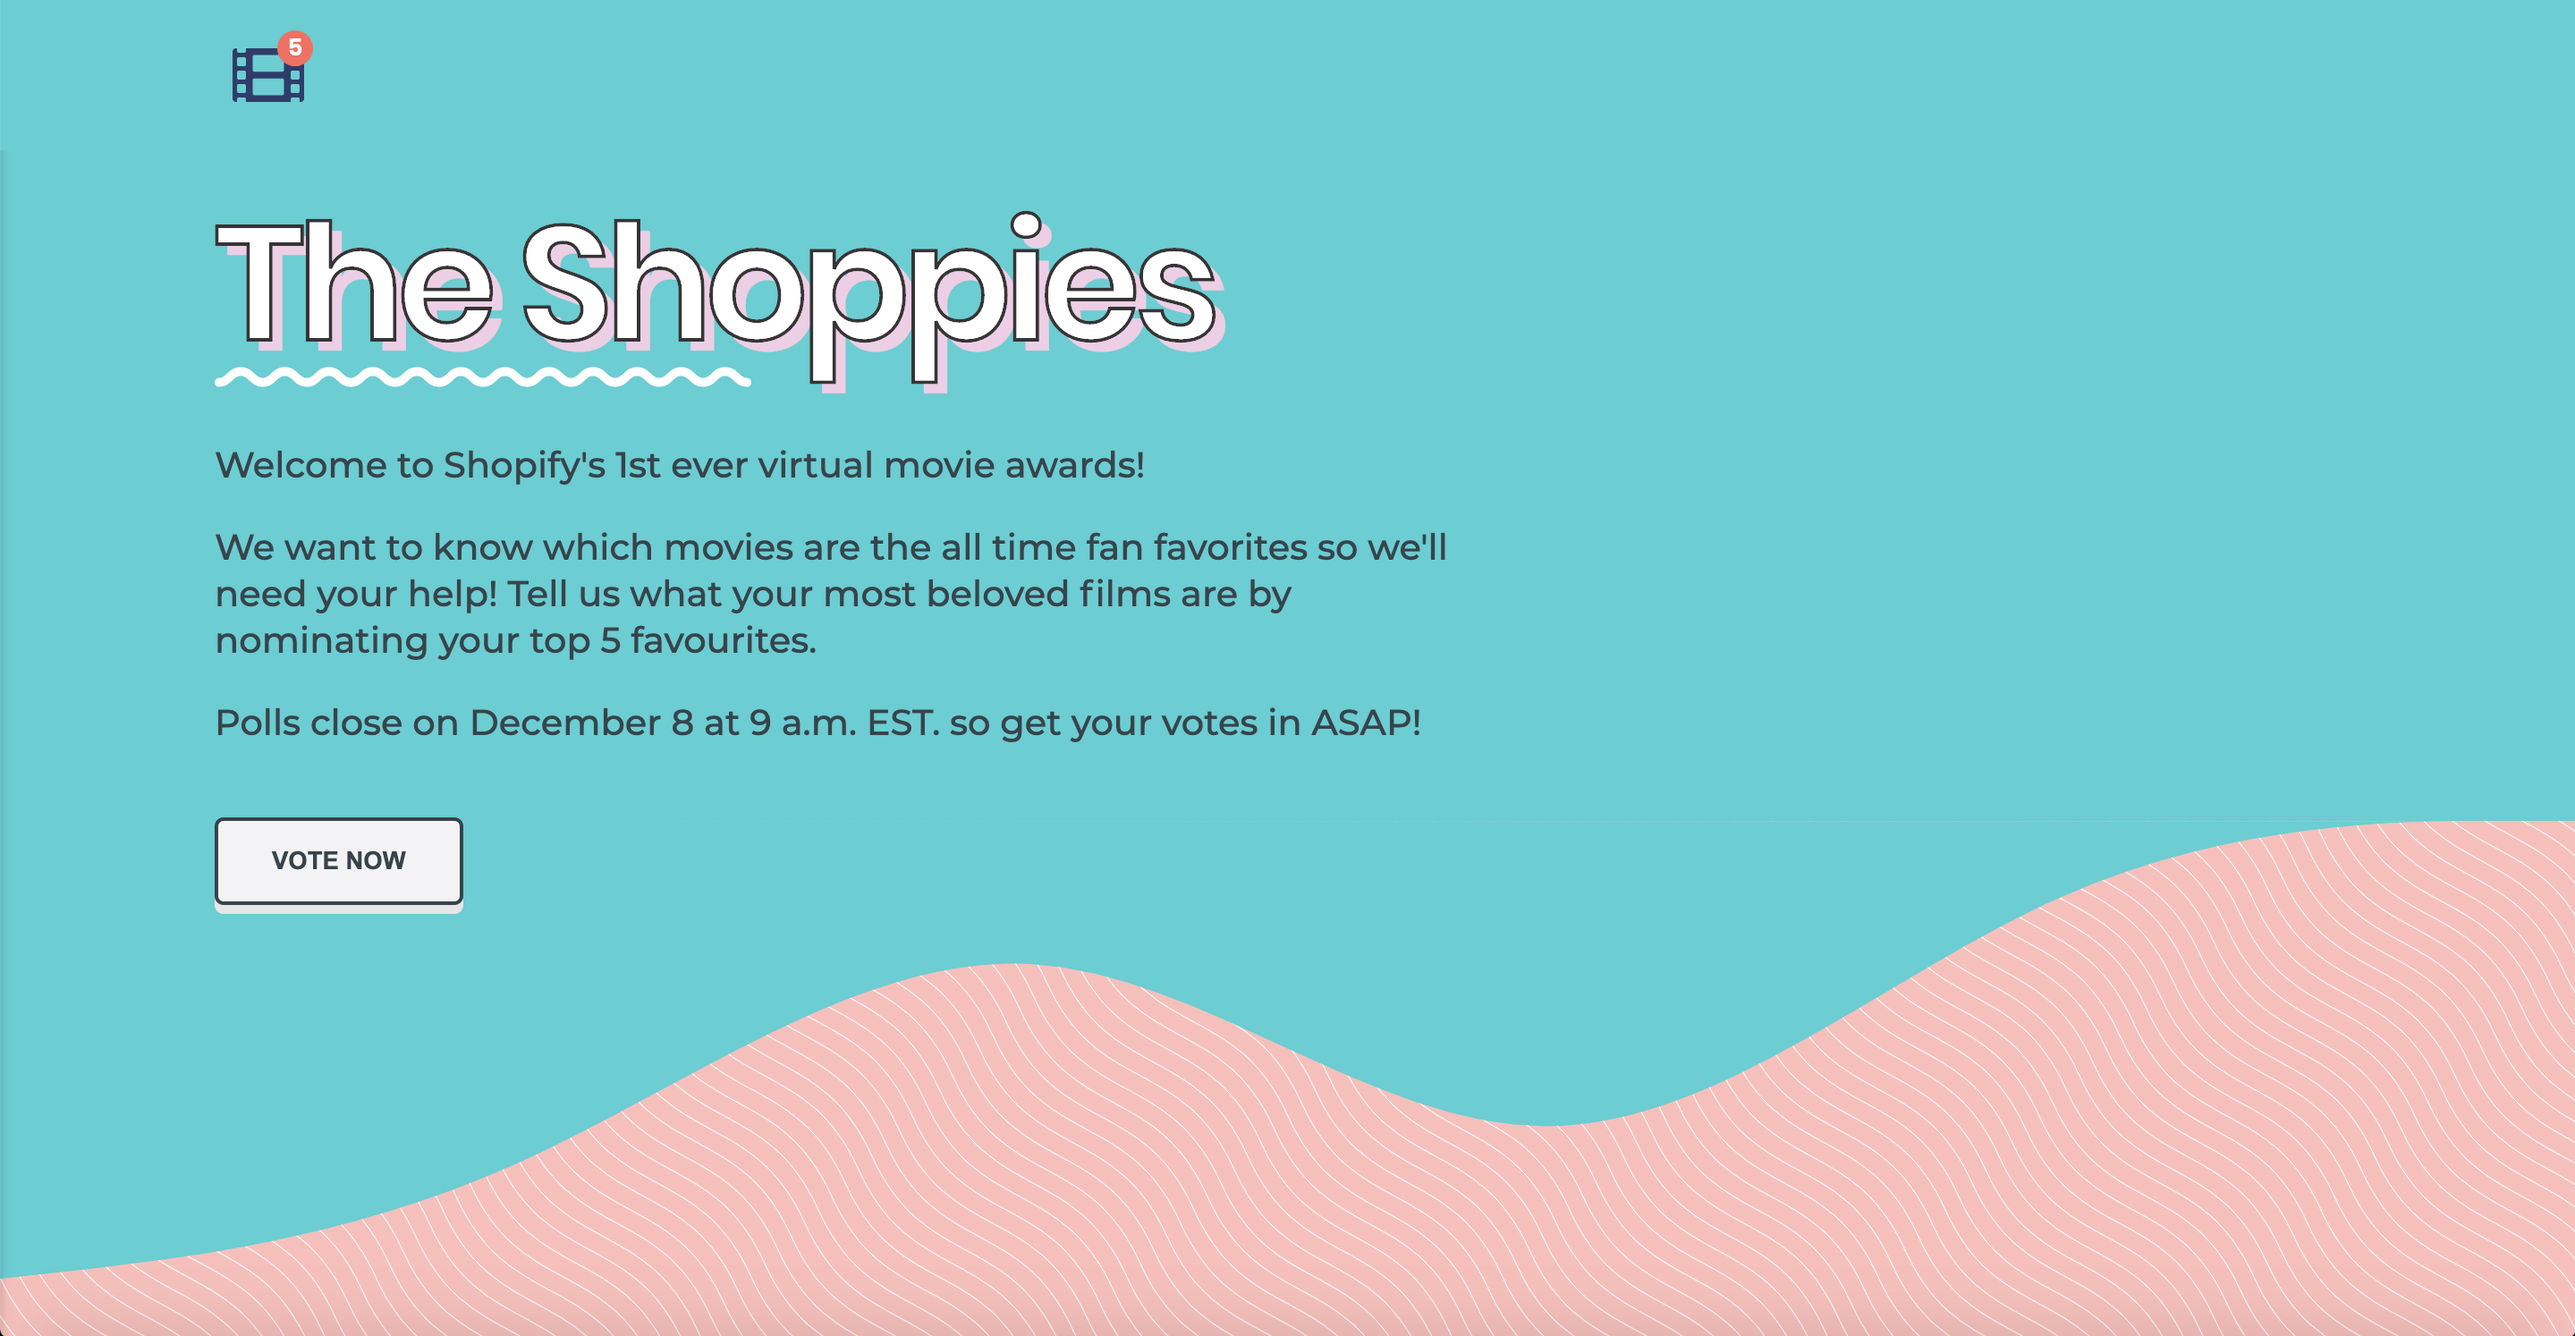
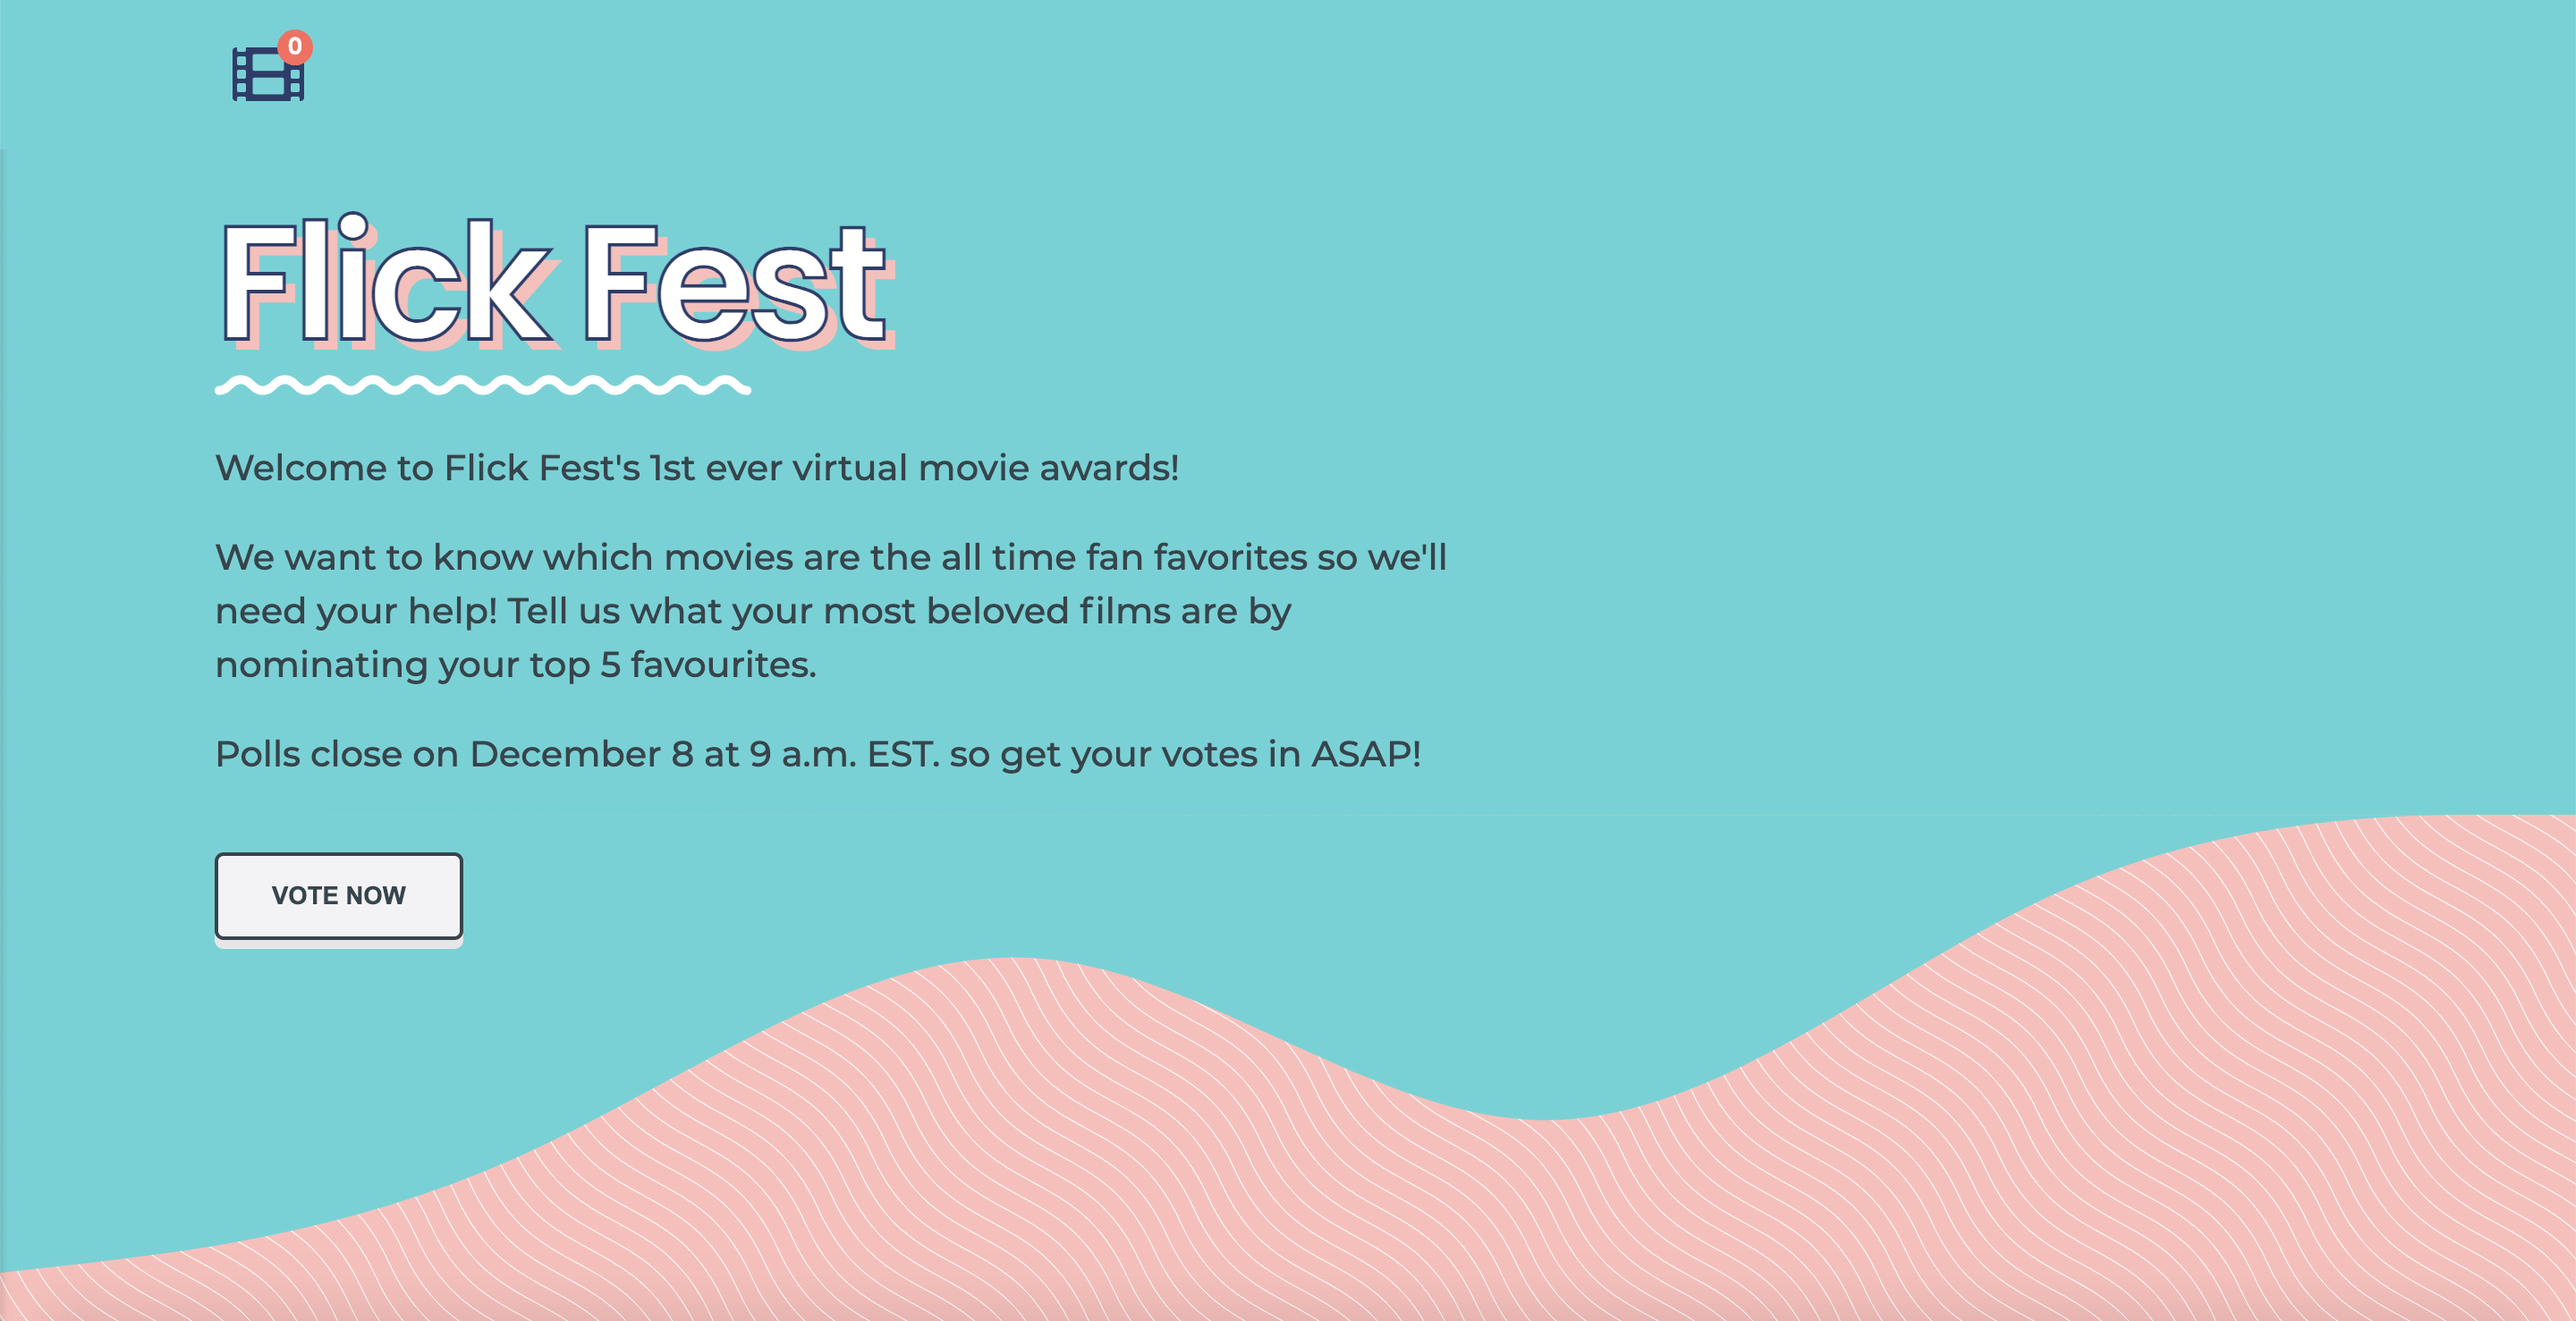
update readme file

diff --git a/README.md b/README.md
@@ -1,4 +1,4 @@
-# The Shoppies 🎬
+# Flick Fest 🎬
 
 View the project <a href="https://shopify-movie.vercel.app/">here</a>.
 
